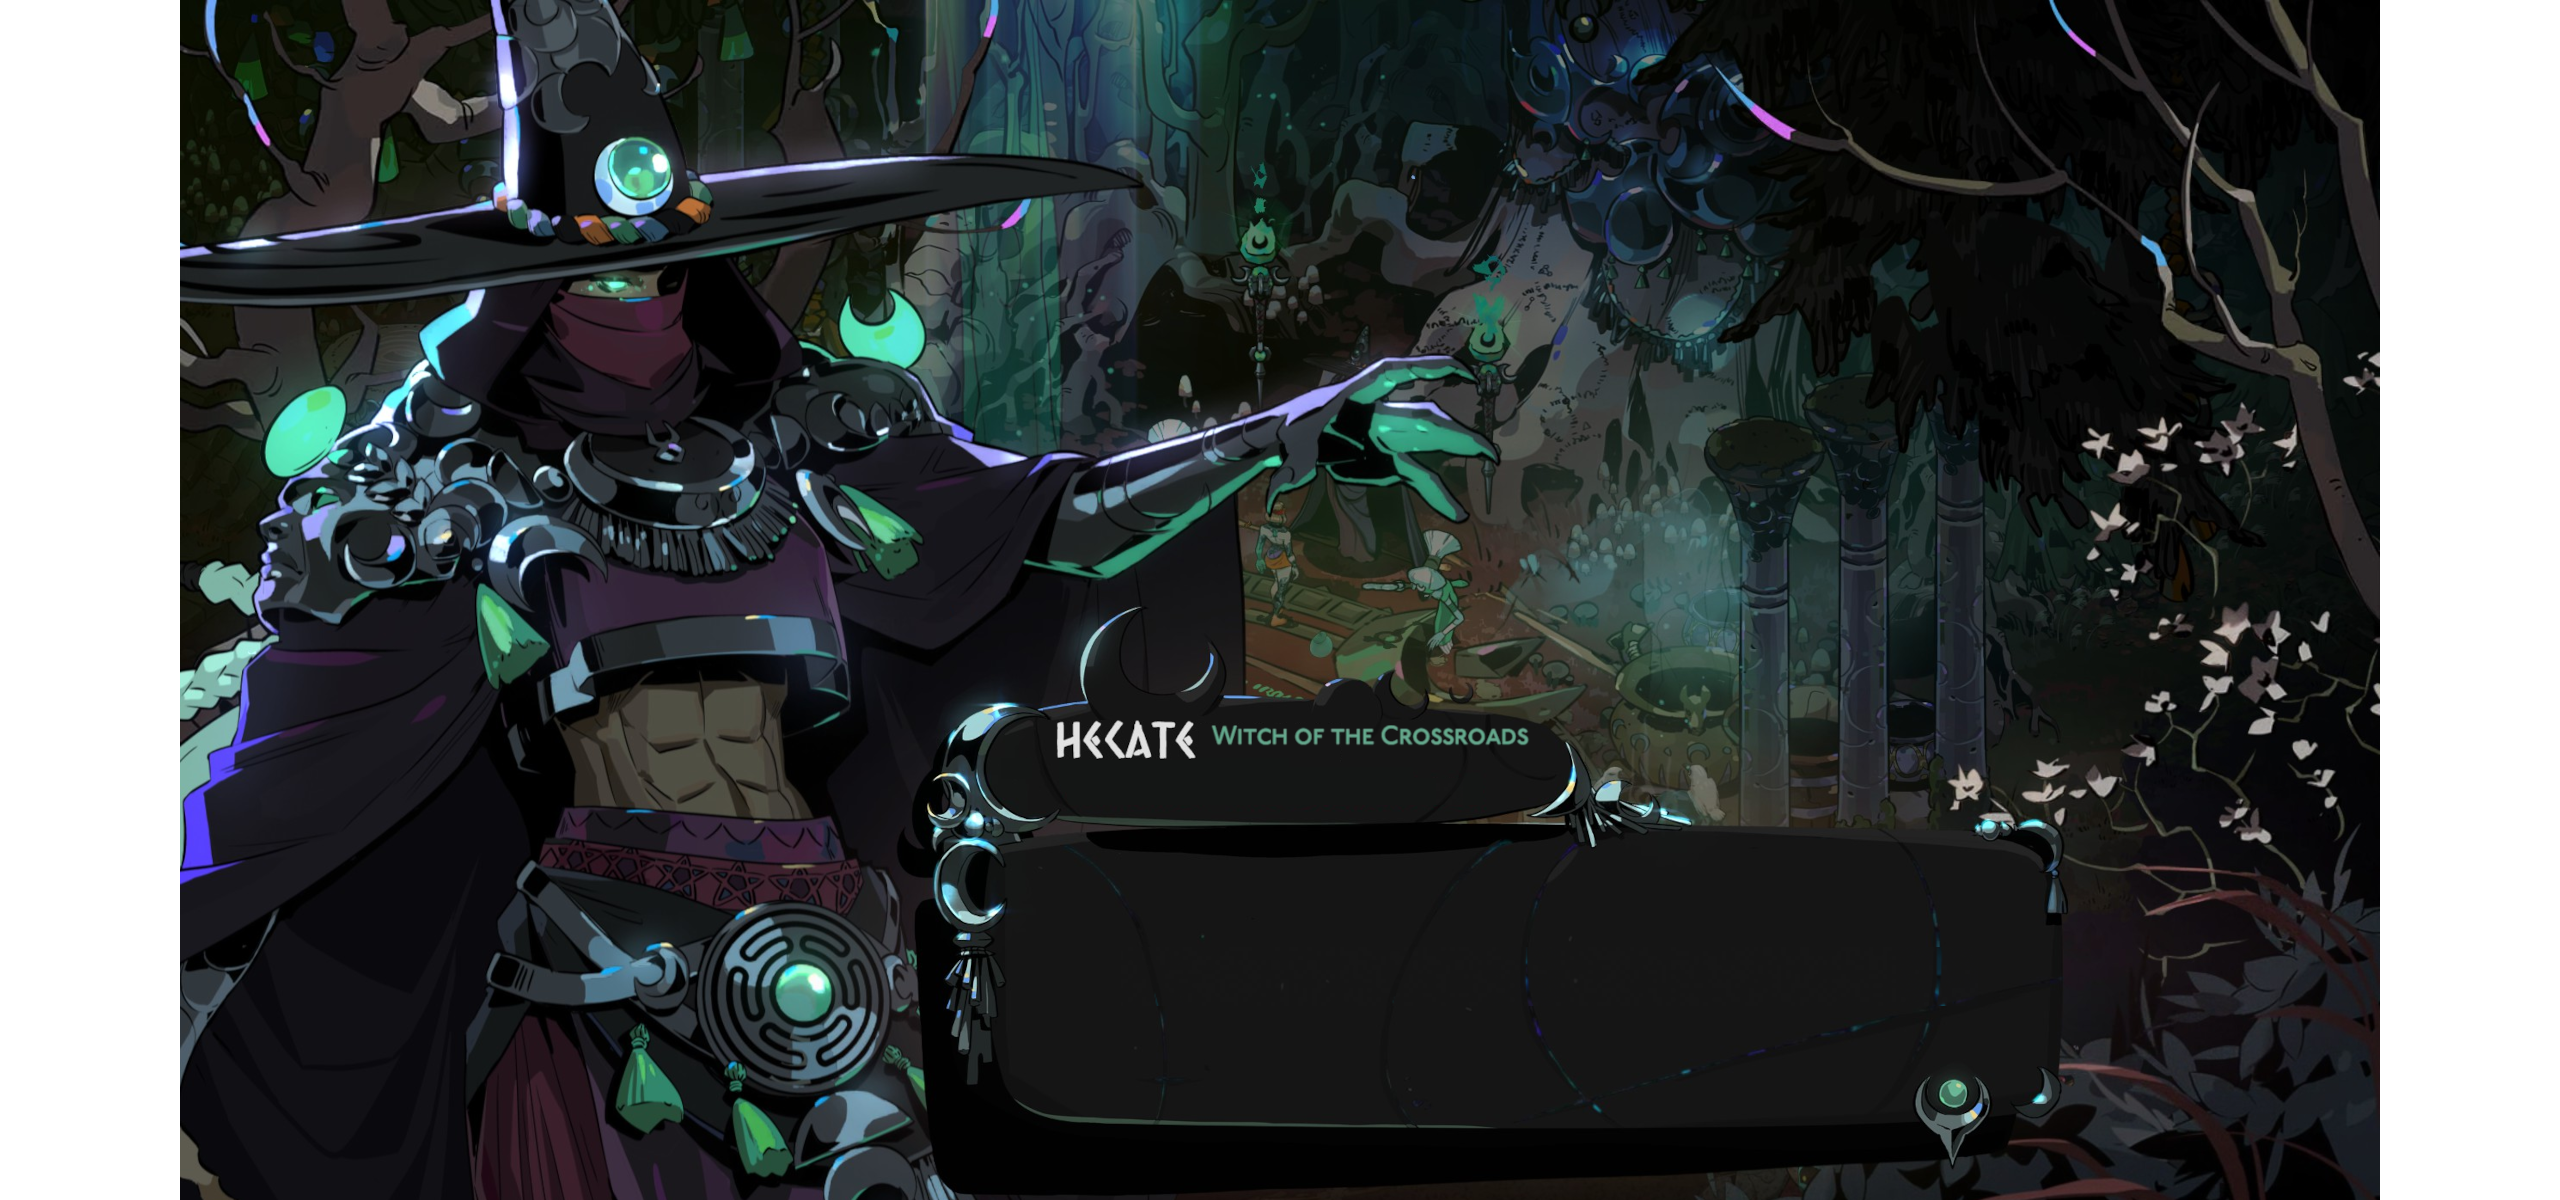
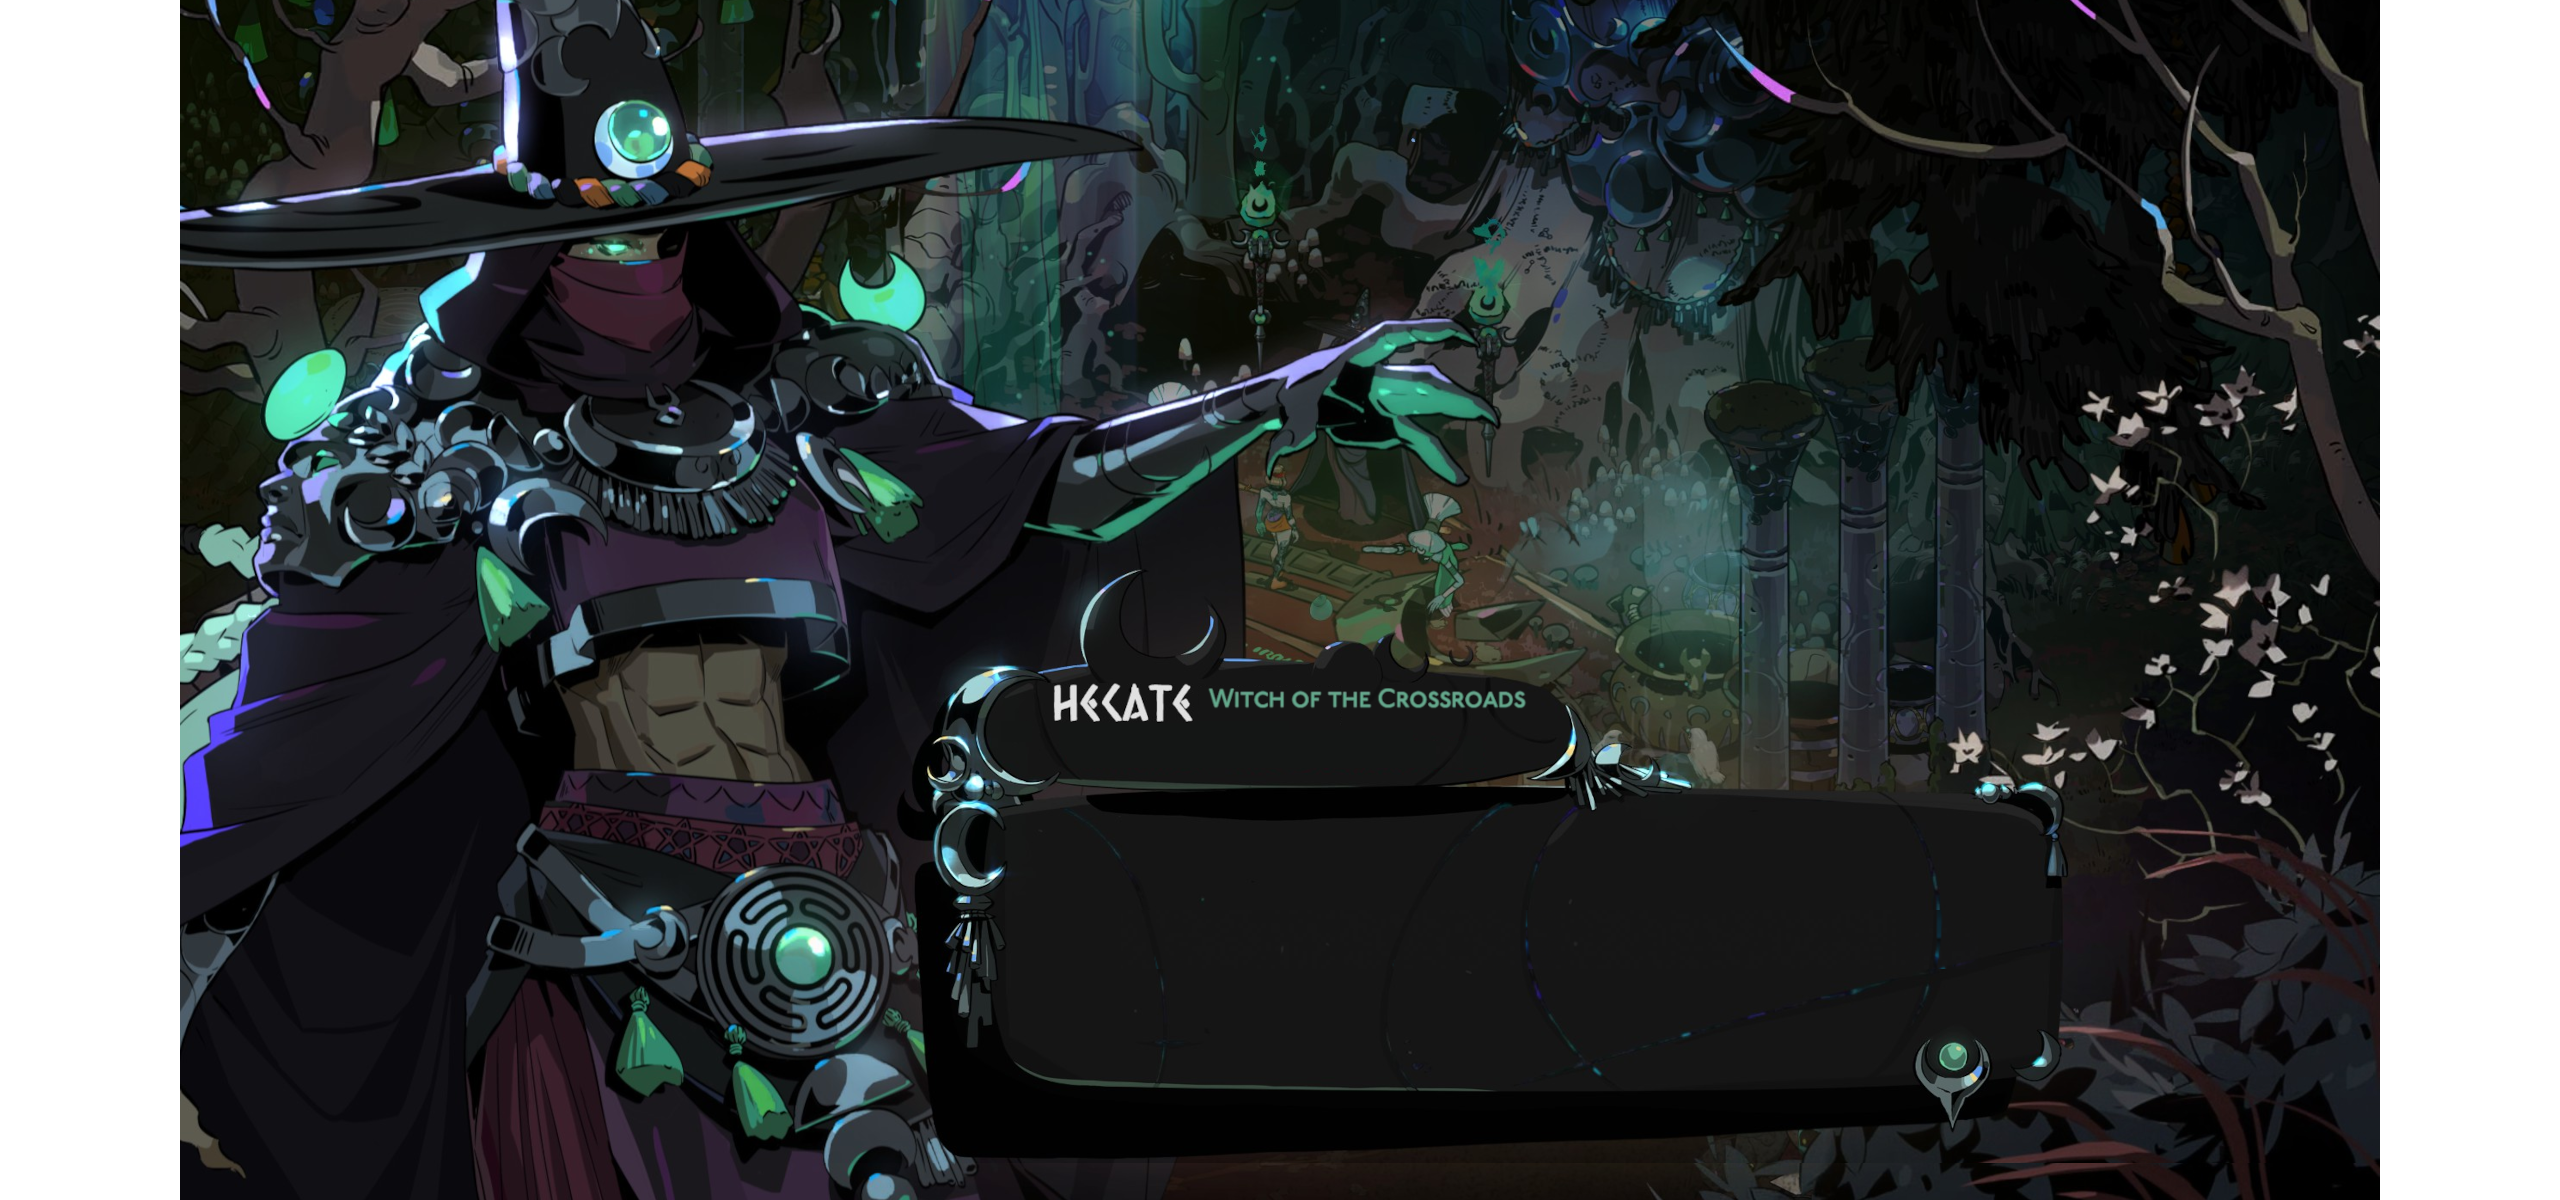
Implemented 'The Enchantress'. Updated Hecate background image. Removed not needed hook.

diff --git a/HadesAncientsCode/Hecate/Relics/TheEnchantress.cs b/HadesAncientsCode/Hecate/Relics/TheEnchantress.cs
@@ -1,0 +1,147 @@
+using BaseLib.Utils;
+using HadesAncients.HadesAncientsCode.Hecate.Relics.Types;
+using HadesAncients.HadesAncientsCode.Shared.Abstracts;
+using HadesAncients.HadesAncientsCode.Shared.Enums;
+using MegaCrit.Sts2.Core.Commands;
+using MegaCrit.Sts2.Core.Entities.Cards;
+using MegaCrit.Sts2.Core.Entities.Players;
+using MegaCrit.Sts2.Core.Entities.Relics;
+using MegaCrit.Sts2.Core.Localization.DynamicVars;
+using MegaCrit.Sts2.Core.Models;
+using MegaCrit.Sts2.Core.Models.Enchantments;
+using MegaCrit.Sts2.Core.Models.RelicPools;
+using MegaCrit.Sts2.Core.Runs;
+using MegaCrit.Sts2.Core.Saves.Runs;
+
+namespace HadesAncients.HadesAncientsCode.Hecate.Relics;
+
+[Pool(typeof(EventRelicPool))]
+public class TheEnchantress() : HadesAncientsRelic(HadesAncient.Hecate), IArcanaRelic
+{
+    private const string CombatsKey = "Combats";
+    private int _charges;
+
+    [SavedProperty]
+    private int Charges
+    {
+        get => _charges;
+        set
+        {
+            AssertMutable();
+            _charges = value;
+            InvokeDisplayAmountChanged();
+        }
+    }
+
+    public override int DisplayAmount => Charges;
+
+    public override bool ShowCounter => true;
+
+    public override RelicRarity Rarity => RelicRarity.Ancient;
+
+    public override IEnumerable<DynamicVar> CanonicalVars =>
+    [
+        new(CombatsKey, 3M)
+    ];
+
+    public int GetArcanaRelicNumber()
+    {
+        return 16;
+    }
+
+    /**
+     * This list intentionally excludes:
+     * - Clone - the Clone option doesn't appear at Rest Sites without Pael's Growth.
+     * - Goopy - it only works with basic Defends.
+     * - Inky - it doesn't check whether a card is an Attack and doesn't work correctly with some Attacks, e.g. Sword Boomerang.
+     * - Slumbering Essence - it's unused in the base game.
+     * - Spiral - it only works with basic Attacks and Defends.
+     * - DeprecatedEnchantment - it's used as a fallback when loading saves that reference missing enchantments.
+     * - MockFreeEnchantment - it appears to be unused in the base game and is likely intended for testing only.
+     */
+    private static List<EnchantmentOption> CreateEnchantmentPool()
+    {
+        return
+        [
+            new EnchantmentOption(ModelDb.Enchantment<Adroit>(), 3M),
+            new EnchantmentOption(ModelDb.Enchantment<Corrupted>(), 1M),
+            new EnchantmentOption(ModelDb.Enchantment<Glam>(), 1M),
+            new EnchantmentOption(ModelDb.Enchantment<Imbued>(), 1M),
+            new EnchantmentOption(ModelDb.Enchantment<Instinct>(), 1M),
+            new EnchantmentOption(ModelDb.Enchantment<Momentum>(), 5M),
+            new EnchantmentOption(ModelDb.Enchantment<Nimble>(), 2M),
+            new EnchantmentOption(ModelDb.Enchantment<PerfectFit>(), 1M),
+            new EnchantmentOption(ModelDb.Enchantment<RoyallyApproved>(), 1M),
+            new EnchantmentOption(ModelDb.Enchantment<Sharp>(), 2M),
+            new EnchantmentOption(ModelDb.Enchantment<Slither>(), 1M),
+            new EnchantmentOption(ModelDb.Enchantment<SoulsPower>(), 1M),
+            new EnchantmentOption(ModelDb.Enchantment<Sown>(), 1M),
+            new EnchantmentOption(ModelDb.Enchantment<Steady>(), 1M),
+            new EnchantmentOption(ModelDb.Enchantment<Swift>(), 2M),
+            new EnchantmentOption(ModelDb.Enchantment<TezcatarasEmber>(), 1M),
+            new EnchantmentOption(ModelDb.Enchantment<Vigorous>(), 8M)
+        ];
+    }
+
+    public override Task AfterModifyingCardRewardOptions()
+    {
+        if (Owner.Creature.IsDead)
+            return Task.CompletedTask;
+        Charges--;
+        return Task.CompletedTask;
+    }
+
+    public override bool TryModifyCardRewardOptionsLate(
+        Player player,
+        List<CardCreationResult> cardRewards,
+        CardCreationOptions options)
+    {
+        if (player != Owner
+            || !options.Flags.HasFlag(CardCreationFlags.IsCardReward)
+            || Charges <= 0)
+        {
+            return false;
+        }
+
+        List<EnchantmentOption> enchantmentPool = CreateEnchantmentPool();
+
+        var rng = Owner.RunState.Rng.CombatCardGeneration;
+
+        foreach (CardCreationResult cardReward in cardRewards)
+        {
+            CardModel card = cardReward.Card;
+
+            List<EnchantmentOption> compatibleEnchantments = enchantmentPool
+                .Where(option => option.Enchantment.CanEnchant(card))
+                .ToList();
+
+            if (compatibleEnchantments.Count == 0)
+                continue;
+
+            rng.Shuffle(compatibleEnchantments);
+
+            EnchantmentOption selected = compatibleEnchantments[0];
+
+            CardModel enchantedCard = Owner.RunState.CloneCard(card);
+
+            CardCmd.Enchant(
+                selected.Enchantment.ToMutable(),
+                enchantedCard,
+                selected.Amount);
+
+            cardReward.ModifyCard(enchantedCard, this);
+        }
+
+        return true;
+    }
+
+    public override Task AfterObtained()
+    {
+        Charges = DynamicVars[CombatsKey].IntValue;
+        return Task.CompletedTask;
+    }
+
+    private sealed record EnchantmentOption(
+        EnchantmentModel Enchantment,
+        decimal Amount);
+}

diff --git a/HadesAncientsCode/Hecate/Relics/TheFates.cs b/HadesAncientsCode/Hecate/Relics/TheFates.cs
@@ -3,7 +3,6 @@ using HadesAncients.HadesAncientsCode.Hecate.Relics.Types;
 using HadesAncients.HadesAncientsCode.Hecate.SpireFields;
 using HadesAncients.HadesAncientsCode.Shared.Abstracts;
 using HadesAncients.HadesAncientsCode.Shared.Enums;
-using HadesAncients.HadesAncientsCode.Shared.Hooks;
 using MegaCrit.Sts2.Core.Entities.Players;
 using MegaCrit.Sts2.Core.Entities.Relics;
 using MegaCrit.Sts2.Core.Localization.DynamicVars;
@@ -15,7 +14,7 @@ using MegaCrit.Sts2.Core.Saves.Runs;
 namespace HadesAncients.HadesAncientsCode.Hecate.Relics;
 
 [Pool(typeof(EventRelicPool))]
-public class TheFates() : HadesAncientsRelic(HadesAncient.Hecate), IAfterOfferRoomEndRewards, IArcanaRelic
+public class TheFates() : HadesAncientsRelic(HadesAncient.Hecate), IArcanaRelic
 {
     private const string CombatsKey = "Combats";
     private int _charges;
@@ -43,24 +42,16 @@ public class TheFates() : HadesAncientsRelic(HadesAncient.Hecate), IAfterOfferRo
         new(CombatsKey, 5M)
     ];
 
-    public Task AfterOfferRoomEndRewards(CombatRoom room)
-    {
-        if (Owner.Creature.IsDead)
-            return Task.CompletedTask;
-        Charges--;
-        return Task.CompletedTask;
-    }
-
     public int GetArcanaRelicNumber()
     {
         return 21;
     }
 
-    public override Task AfterCombatVictory(CombatRoom _)
+    public override Task AfterModifyingRewards()
     {
         if (Owner.Creature.IsDead)
             return Task.CompletedTask;
-        Flash();
+        Charges--;
         return Task.CompletedTask;
     }
 
@@ -70,6 +61,7 @@ public class TheFates() : HadesAncientsRelic(HadesAncient.Hecate), IAfterOfferRo
             return false;
         foreach (CardReward cardReward in rewards.OfType<CardReward>())
             HecateSpireFields.TheFuriesRerolls.Set(cardReward, HecateSpireFields.TheFuriesRerolls.Get(cardReward) + 1);
+        Flash();
         return true;
     }
 

diff --git a/HadesAncientsCode/Shared/Hooks/HadesAncientsHooks.cs b/HadesAncientsCode/Shared/Hooks/HadesAncientsHooks.cs
@@ -78,19 +78,6 @@ public class HadesAncientsHooks
         );
     }
 
-    public static Task AfterOfferRoomEndRewards(
-        IRunState? runState,
-        ICombatState? combatState,
-        CombatRoom room
-    )
-    {
-        return DispatchAsync<IAfterOfferRoomEndRewards>(
-            runState,
-            combatState,
-            model => model.AfterOfferRoomEndRewards(room)
-        );
-    }
-
     public static void AfterRoomTypeRolled(IRunState runState, RoomType roomType)
     {
         Dispatch<IAfterRoomTypeRolled>(runState, null, m => m.AfterRoomTypeRolled(runState, roomType));

diff --git a/HadesAncientsCode/Hecate/Ancients/HecateAncient.cs b/HadesAncientsCode/Hecate/Ancients/HecateAncient.cs
@@ -30,6 +30,8 @@ public class HecateAncient : CustomAncientModel
                 AncientOption<Origination>(),
                 AncientOption<Persistence>(),
                 AncientOption<TheCentaur>(),
+                AncientOption<TheEnchantress>(),
+                AncientOption<TheFates>(),
                 AncientOption<TheFuries>(),
                 AncientOption<TheHuntress>(),
                 AncientOption<TheLovers>(),

diff --git a/HadesAncientsCode/Shared/Patches/HadesAncients_AdjustLayout_Patch.cs b/HadesAncientsCode/Shared/Patches/HadesAncients_AdjustLayout_Patch.cs
@@ -46,7 +46,7 @@ public static class HadesAncients_AdjustLayout_Patch
         new(
             ancientEvent => ancientEvent.Id == ModelDb.GetId<HecateAncient>(),
             xOffset: 138f,
-            yOffset: 85f,
+            yOffset: 47,
             scaleAmount: 0.85f
         ),
         new(
